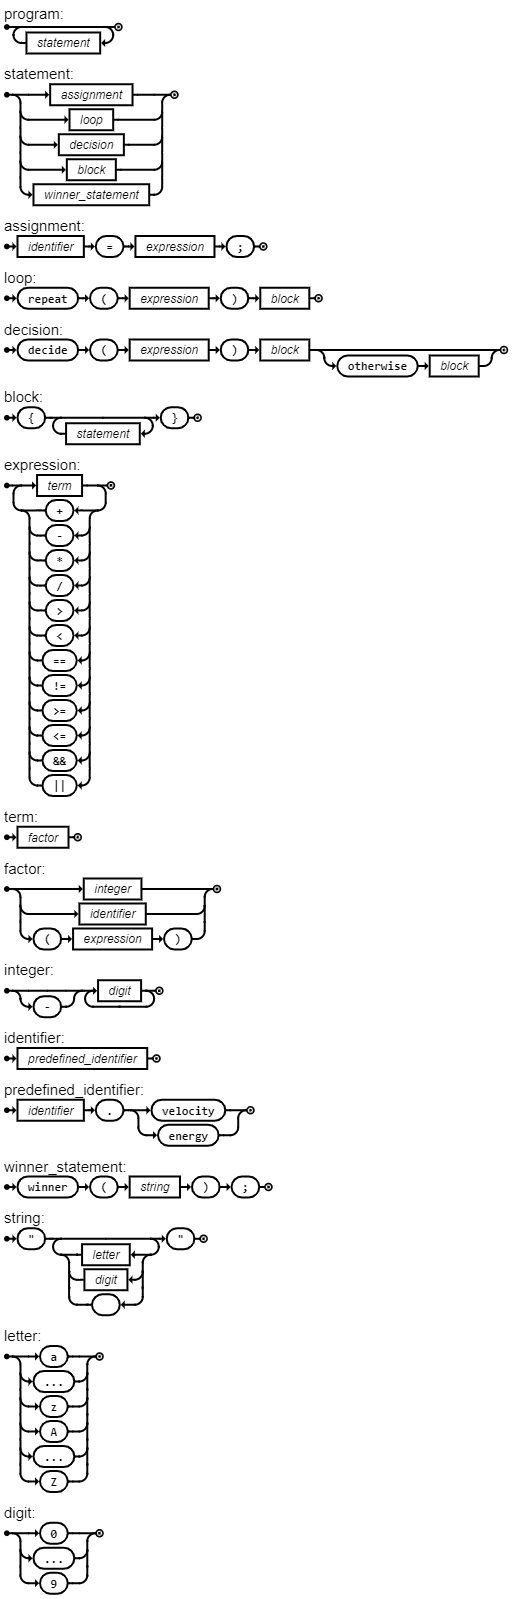
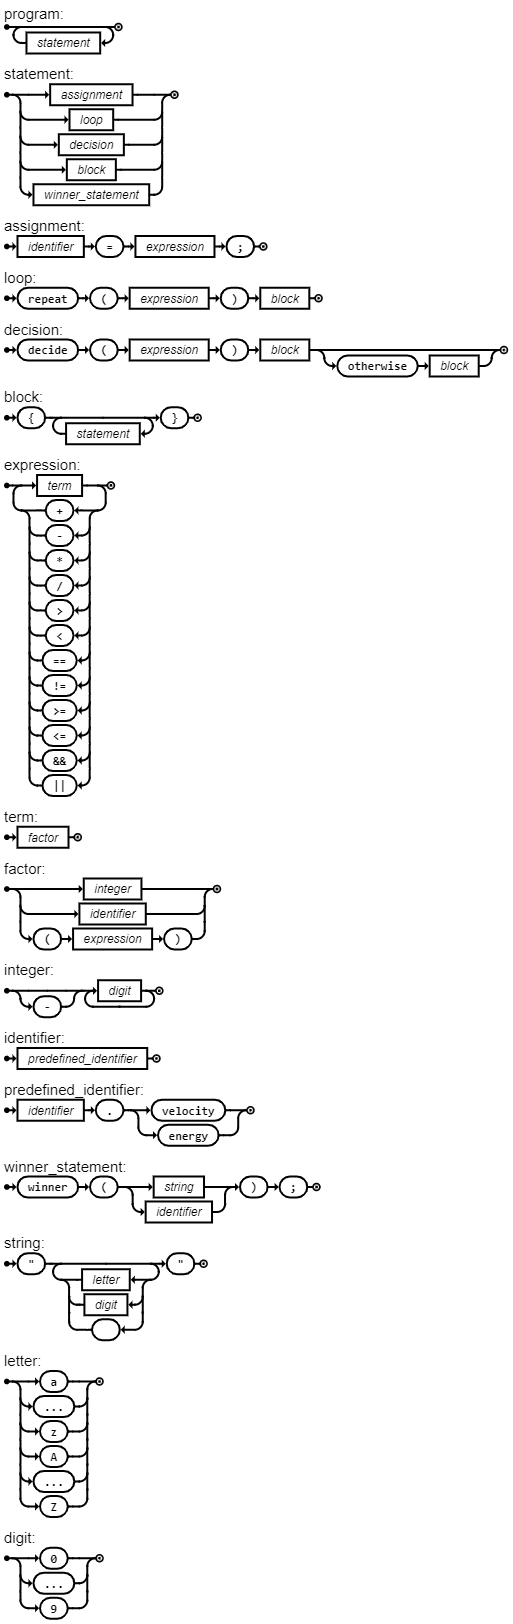
foto

Changed region(s): [[0.0, 0.0, 0.9981, 1.0], [0.5926, 0.7048, 0.6238, 0.7355]]

diff --git a/README.md b/README.md
@@ -31,7 +31,7 @@ identifier = predefined_identifier ;
 
 predefined_identifier = identifier, ".", ("velocity" | "energy") ;
 
-winner_statement = "winner", "(", string, ")", ";" ;
+winner_statement = "winner", "(", (string | identifier), ")", ";" ;
 
 string = '"', { letter | digit | " " }, '"' ;
 
